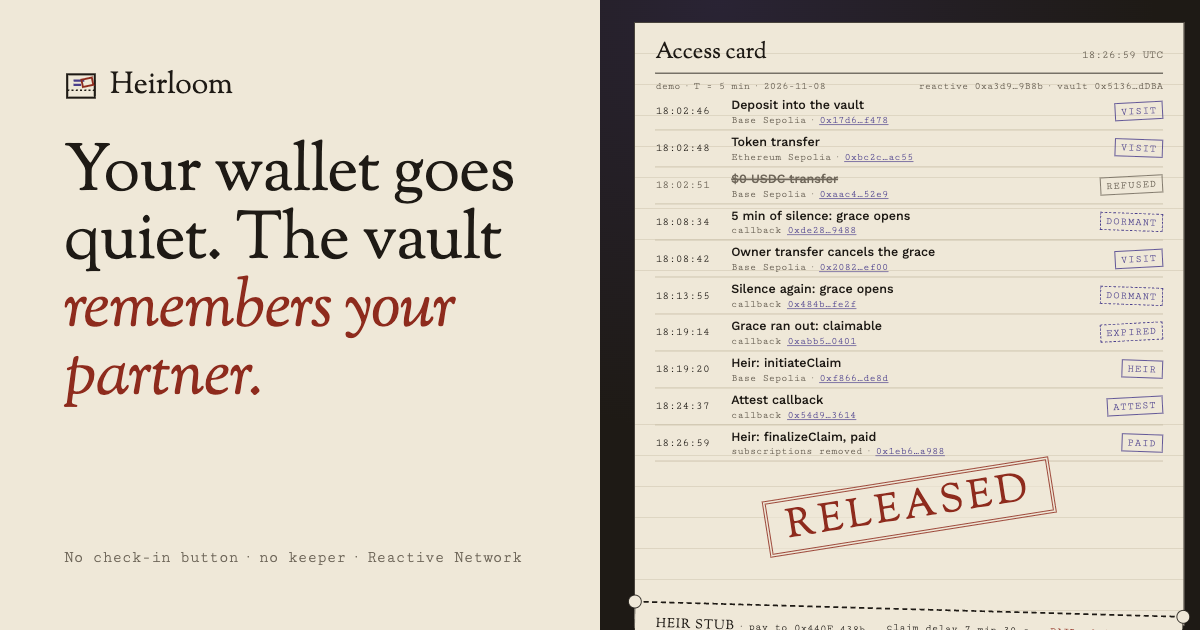
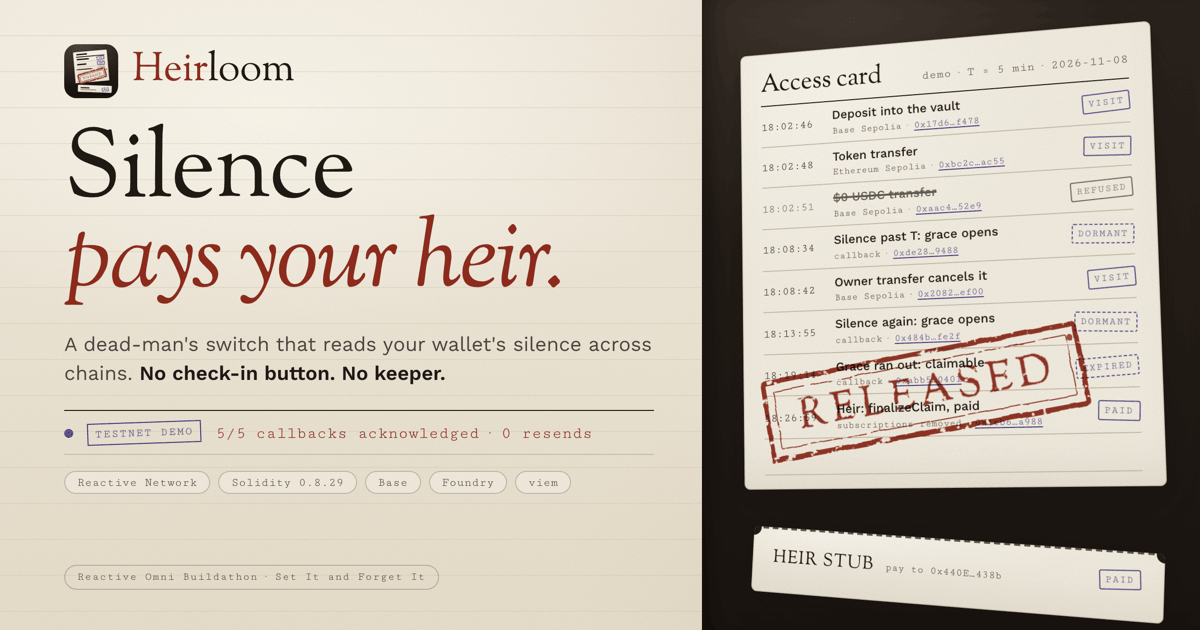
feat: access-card brand suite with an animated README hero
The mark and every judge-facing image now show the mechanism itself: the
safe-deposit access card whose violet visit stamps stop, a stranger's $0 row
refused, then one oxblood RELEASED stamp and the heir stub torn free.

- docs/assets/brand/: icon (static + animated 6 s), README hero (animated 8 s +
  static), OG card, YouTube thumbnail, gallery thumbnail + one-flow diagram,
  dev.to cover, icon PNGs. The animated SVGs use outlined glyphs only, so they
  render the same inside GitHub's <img> sandbox. Every card row is a real tx
  from evidence/triples.csv; the metric (5 of 5 callbacks acknowledged,
  0 resends) is evidence/status.json + demo-summary.json.
- README: animated icon + hero in the top matter; the architecture diagram
  moves into its own section.
- Landing, deck, judge page: new favicon / nav mark / apple-touch icon, the
  new 1200x630 og:image (cache-busted) and its alt text.

Changed region(s): [[0.0308, 0.0, 1.0, 1.0], [0.0617, 0.8746, 0.4317, 0.9349], [0.0617, 0.754, 0.4625, 0.7841]]

diff --git a/docs/index.html b/docs/index.html
@@ -13,10 +13,10 @@
 <meta property="og:title" content="Heirloom: your wallet goes quiet, the vault remembers your partner">
 <meta property="og:description" content="A dead-man's switch that reads silence across chains. No check-in button, no keeper. Built on Reactive Network.">
 <meta property="og:url" content="https://edycutjong.github.io/heirloom/">
-<meta property="og:image" content="https://edycutjong.github.io/heirloom/assets/og.png?v=62d776ad">
+<meta property="og:image" content="https://edycutjong.github.io/heirloom/assets/og.png?v=a23c729d">
 <meta property="og:image:width" content="1200">
 <meta property="og:image:height" content="630">
-<meta property="og:image:alt" content="The Heirloom access card: visit stamps, a refused $0 row, and an oxblood RELEASED stamp">
+<meta property="og:image:alt" content="Silence pays your heir: the Heirloom access card with violet visit stamps, a refused $0 row, an oxblood RELEASED stamp and the heir stub torn free">
 <meta name="twitter:card" content="summary_large_image">
 <meta name="twitter:creator" content="Edy Cu">
 <link rel="icon" href="assets/icon.svg" type="image/svg+xml">
@@ -108,7 +108,7 @@ code{font-family:var(--font-data);font-size:.92em}
 .nav{position:sticky;top:0;z-index:5;background:color-mix(in srgb,var(--bg) 92%,transparent);backdrop-filter:blur(6px);border-bottom:1px solid var(--rule)}
 .nav .wrap{display:flex;align-items:center;gap:22px;height:62px}
 .brand{display:flex;align-items:center;gap:10px;font:400 24px/1 var(--font-display);text-decoration:none}
-.brand svg{width:26px;height:26px}
+.brand svg,.brand img{width:26px;height:26px}
 .nav ul{display:flex;gap:20px;list-style:none;margin:0 0 0 auto;padding:0;font-size:14.5px}
 .nav ul a{text-decoration:none;color:var(--muted);padding:6px 0;border-bottom:1.5px solid transparent;transition:color .2s,border-color .2s}
 .nav ul a:hover{color:var(--ink);border-color:var(--ink)}
@@ -274,7 +274,7 @@ footer .stamp-line{grid-column:1/-1;max-width:none;font:12.5px var(--font-data);
 <a class="skip" href="#main">Skip to content</a>
 <header class="nav">
   <div class="wrap">
-    <a class="brand" href="#top" aria-label="Heirloom, back to top"><svg viewBox="0 0 32 32" aria-hidden="true"><rect x="3" y="5" width="26" height="22" fill="none" stroke="currentColor" stroke-width="2"/><path d="M3 20h26" stroke="currentColor" stroke-width="1.6" stroke-dasharray="2 2"/><path d="M9 11h10M9 15h7" stroke="#4A3E8C" stroke-width="2"/><rect x="17" y="9" width="10" height="7" transform="rotate(-12 22 12.5)" fill="none" stroke="#8E2B1D" stroke-width="1.8"/></svg>Heirloom</a>
+    <a class="brand" href="#top" aria-label="Heirloom, back to top"><img src="assets/icon.svg" alt="" width="26" height="26">Heirloom</a>
     <ul>
       <li><a href="#live">The card</a></li>
       <li><a href="#how">How it works</a></li>
@@ -458,7 +458,7 @@ refusal   ZERO_VALUE</pre>
 <footer>
   <div class="wrap">
     <div>
-      <a class="brand" href="#top"><svg viewBox="0 0 32 32" aria-hidden="true"><rect x="3" y="5" width="26" height="22" fill="none" stroke="currentColor" stroke-width="2"/><path d="M3 20h26" stroke="currentColor" stroke-width="1.6" stroke-dasharray="2 2"/><path d="M9 11h10M9 15h7" stroke="#4A3E8C" stroke-width="2"/><rect x="17" y="9" width="10" height="7" transform="rotate(-12 22 12.5)" fill="none" stroke="#8E2B1D" stroke-width="1.8"/></svg>Heirloom</a>
+      <a class="brand" href="#top"><img src="assets/icon.svg" alt="" width="26" height="26">Heirloom</a>
       <p>A dead-man's switch with no server to die with you. Built by Edy Cu for the Reactive Omni Buildathon, track Set It and Forget It. MIT licensed.</p>
     </div>
     <ul>

diff --git a/docs/judge/index.html b/docs/judge/index.html
@@ -13,10 +13,10 @@
 <meta property="og:title" content="Heirloom for judges">
 <meta property="og:description" content="The claim, a 30-second path through live Reactive Lasna and Base Sepolia transactions, the receipts and the limits.">
 <meta property="og:url" content="https://edycutjong.github.io/heirloom/judge/">
-<meta property="og:image" content="https://edycutjong.github.io/heirloom/assets/og.png?v=62d776ad">
+<meta property="og:image" content="https://edycutjong.github.io/heirloom/assets/og.png?v=a23c729d">
 <meta property="og:image:width" content="1200">
 <meta property="og:image:height" content="630">
-<meta property="og:image:alt" content="The Heirloom access card: visit stamps, a refused $0 row, and an oxblood RELEASED stamp">
+<meta property="og:image:alt" content="Silence pays your heir: the Heirloom access card with violet visit stamps, a refused $0 row, an oxblood RELEASED stamp and the heir stub torn free">
 <meta name="twitter:card" content="summary_large_image">
 <link rel="icon" href="../assets/icon.svg" type="image/svg+xml">
 <link rel="apple-touch-icon" href="../assets/icon-180.png">
@@ -44,7 +44,7 @@ code,.mono{font-family:var(--font-data);font-size:.92em}
 header.top{border-bottom:1px solid var(--rule)}
 header.top .wrap{display:flex;align-items:center;justify-content:space-between;gap:16px;height:60px}
 .brand{display:flex;align-items:center;gap:10px;font:400 22px var(--font-display);color:var(--ink);text-decoration:none}
-.brand svg{width:26px;height:26px}
+.brand svg,.brand img{width:26px;height:26px}
 .top nav{display:flex;gap:18px;font-size:14.5px}
 .top nav a{color:var(--muted);text-decoration:none;border-bottom:1.5px solid transparent;padding:4px 0;transition:color .2s,border-color .2s}
 .top nav a:hover{color:var(--ink);border-color:var(--ink)}
@@ -90,7 +90,7 @@ footer a{color:var(--muted)}
 <a class="skip" href="#main">Skip to content</a>
 <header class="top">
   <div class="wrap">
-    <a class="brand" href="../"><svg viewBox="0 0 32 32" aria-hidden="true"><rect x="3" y="5" width="26" height="22" fill="none" stroke="currentColor" stroke-width="2"/><path d="M3 20h26" stroke="currentColor" stroke-width="1.6" stroke-dasharray="2 2"/><path d="M9 11h10M9 15h7" stroke="#4A3E8C" stroke-width="2"/><rect x="17" y="9" width="10" height="7" transform="rotate(-12 22 12.5)" fill="none" stroke="#8E2B1D" stroke-width="1.8"/></svg>Heirloom</a>
+    <a class="brand" href="../"><img src="../assets/icon.svg" alt="" width="26" height="26">Heirloom</a>
     <nav aria-label="Site">
       <a href="../">Landing</a>
       <a href="../pitch/">Pitch deck</a>

diff --git a/docs/pitch/index.html b/docs/pitch/index.html
@@ -11,7 +11,7 @@
 <meta property="og:title" content="Heirloom · pitch deck">
 <meta property="og:description" content="A dead-man's switch that reads silence across chains. No check-in button, no keeper. Built on Reactive Network.">
 <meta property="og:url" content="https://edycutjong.github.io/heirloom/pitch/">
-<meta property="og:image" content="https://edycutjong.github.io/heirloom/assets/og.png?v=62d776ad">
+<meta property="og:image" content="https://edycutjong.github.io/heirloom/assets/og.png?v=a23c729d">
 <meta property="og:image:width" content="1200">
 <meta property="og:image:height" content="630">
 <meta name="twitter:card" content="summary_large_image">
@@ -113,7 +113,7 @@ p{margin:0}
 .cover h1 em{color:var(--after)}
 .cover .tag{font-size:32px;max-width:24em;color:color-mix(in srgb,var(--ink) 80%,var(--bg))}
 .brand{display:flex;align-items:center;gap:18px;font:400 46px var(--font-display)}
-.brand svg{width:52px;height:52px}
+.brand svg,.brand img{width:52px;height:52px}
 .mat{background:var(--ink);padding:30px 30px 46px;margin-top:-20px}
 .mat .card{transform-origin:0 0}
 .s1 .card{zoom:1}
@@ -204,7 +204,7 @@ body.shownotes .np{display:block}
 <section class="frame s1 on" data-n="1" aria-label="Slide 1">
   <div class="cover">
     <div>
-      <div class="brand"><svg viewBox="0 0 32 32" aria-hidden="true"><rect x="3" y="5" width="26" height="22" fill="none" stroke="currentColor" stroke-width="2"/><path d="M3 20h26" stroke="currentColor" stroke-width="1.6" stroke-dasharray="2 2"/><path d="M9 11h10M9 15h7" stroke="#4A3E8C" stroke-width="2"/><rect x="17" y="9" width="10" height="7" transform="rotate(-12 22 12.5)" fill="none" stroke="#8E2B1D" stroke-width="1.8"/></svg>Heirloom</div>
+      <div class="brand"><img src="../assets/icon.svg" alt="" width="26" height="26">Heirloom</div>
       <h1>Your wallet goes quiet. The vault <em>remembers your partner.</em></h1>
       <p class="tag">A dead-man's switch with no server to die with you.</p>
     </div>

diff --git a/README.md b/README.md
@@ -1,8 +1,9 @@
 <div align="center">
-  <h1>Heirloom ⏳</h1>
+  <img src="docs/assets/brand/icon-animated.svg" alt="Heirloom mark: the card's stamps stop, RELEASED lands, the heir stub tears free" width="112">
+  <h1>Heirloom</h1>
   <p><em>A dead-man's switch for a self-custody wallet. It reads silence across chains, so there is no keeper and no check-in button.</em></p>
 
-  <img src="docs/architecture.svg" alt="Heirloom architecture: origin chains feed the Reactive Network, which calls back into a vault on Base" width="100%">
+  <img src="docs/assets/brand/readme-hero-animated.svg" alt="Heirloom — releases a vault on Base to your heir once your wallet goes quiet across chains. The card's violet stamps stop; a stranger's $0 row is refused; silence outlasts grace; the oxblood RELEASED stamp lands." width="100%">
 
   <p>Every on-chain and security claim below links to a transaction or a test. Testnet only so far: Reactive Lasna with Base Sepolia. The mainnet deploy is scripted and dry-run, not yet run.</p>
 
@@ -11,7 +12,7 @@
   <br/>
 
   [![For Judges](https://img.shields.io/badge/For_Judges-30--second_path-8E2B1D?style=for-the-badge)](https://edycutjong.github.io/heirloom/judge/)
-  [![Built for Reactive Omni Buildathon](https://img.shields.io/badge/DoraHacks-Reactive_Omni_Buildathon-8b5cf6?style=for-the-badge)](https://dorahacks.io/hackathon/reactive-omni-buildathon/detail)
+  [![Built for Reactive Omni Buildathon](https://img.shields.io/badge/DoraHacks-Reactive_Omni_Buildathon-4A3E8C?style=for-the-badge)](https://dorahacks.io/hackathon/reactive-omni-buildathon/detail)
 
   <br/>
 
@@ -53,6 +54,8 @@ States: `ARMED → GRACE → CLAIMABLE → CLAIM_PENDING → RELEASED`. Any watc
 | Tests | Foundry with the Reactive Network's Test Lib, via an Omni adapter in `packages/reactive-kit` |
 | Scripts | TypeScript with viem, run with `tsx` |
 | Status page | static `status/` (HTML + one ES module), read-only live chain reads plus the heir's claim panel |
+
+<p align="center"><img src="docs/architecture.svg" alt="Heirloom architecture: origin chains feed the Reactive Network, which calls back into a vault on Base" width="100%"></p>
 
 The diagram source is [`docs/architecture.svg`](docs/architecture.svg).
 
